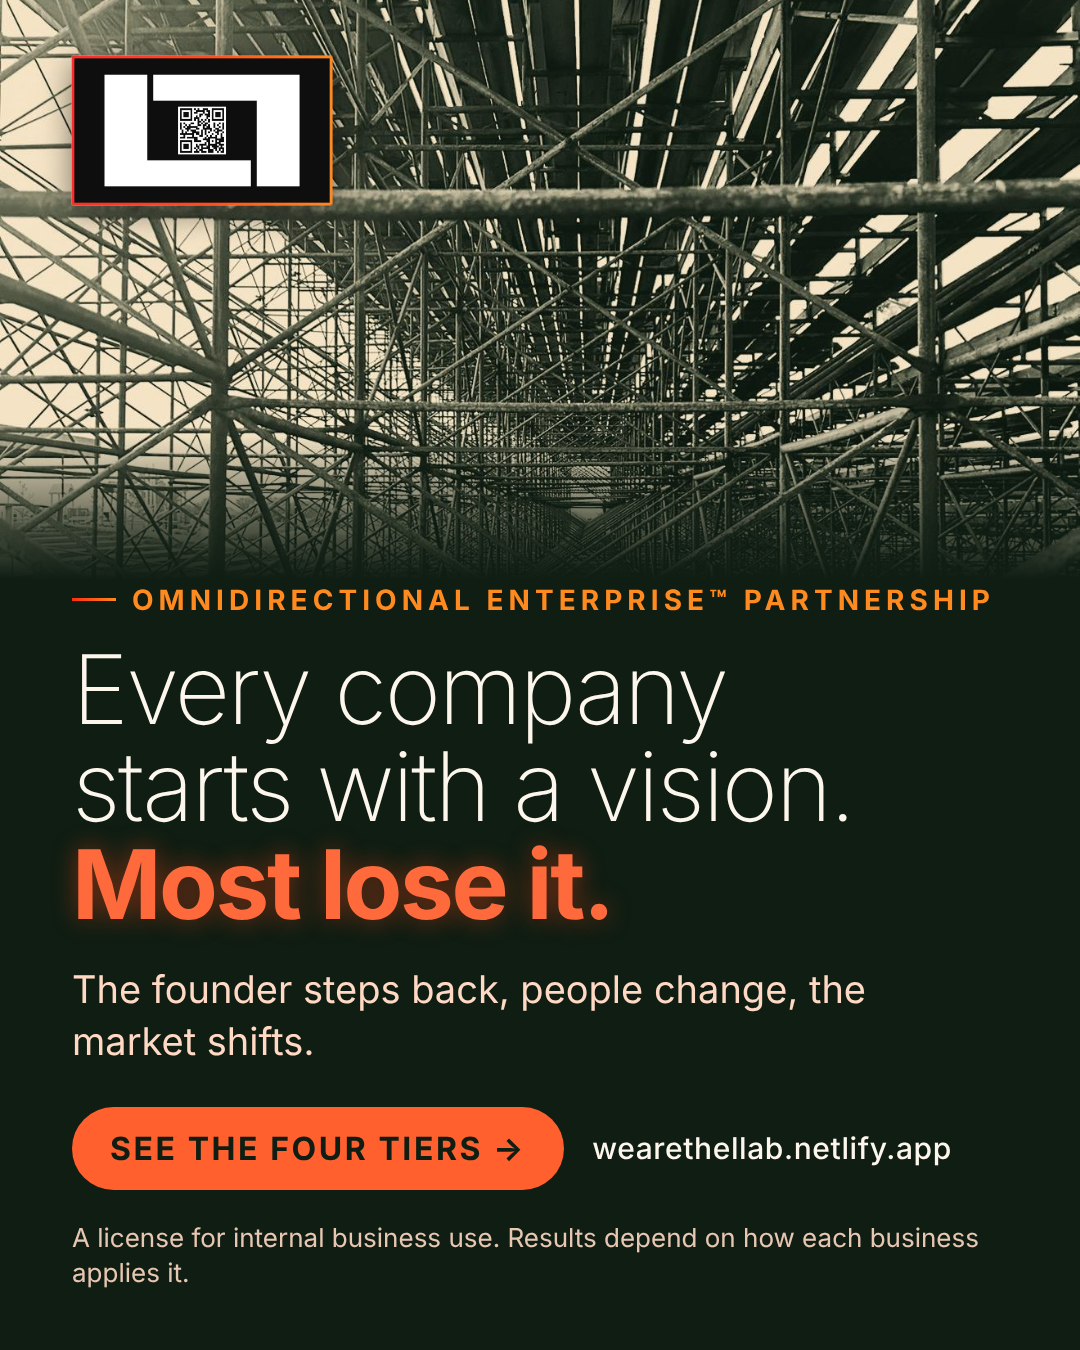
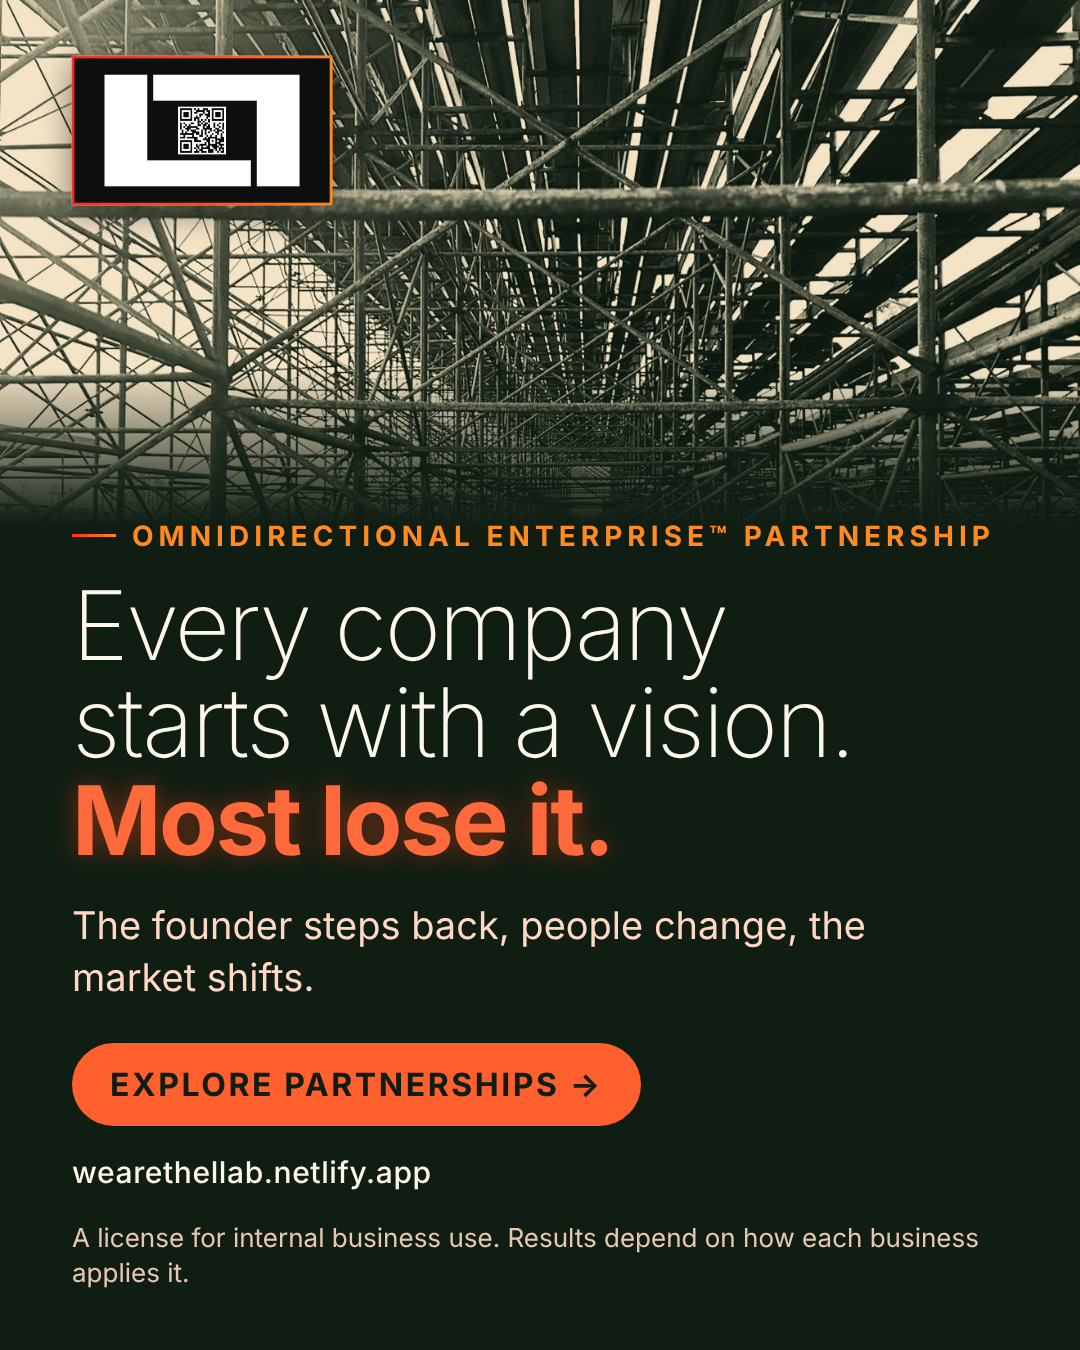
Button reads "Explore Partnerships" (Home hero, sticky CTA, Partnership page, ad 01, share card)
Claude-Session: https://claude.ai/code/session_01CJiPCp3b9wqRwJ31gambQ1

Changed region(s): [[0.0, 0.28, 1.0, 0.9022]]

diff --git a/index.html b/index.html
@@ -159,7 +159,7 @@
         The founder steps back, people change, the market shifts. The Co.LLab™ helps companies define their legacy, build it into how they work, and pass it on.
       </p>
       <div class="hero-cta-row">
-        <a href="pages/partnership.html#tiers" data-field-href="hero_cta_primary_link" class="pill pill--solid"><span data-field="hero_cta_primary_label">See the four tiers</span> <span class="arrow">→</span></a>
+        <a href="pages/partnership.html#tiers" data-field-href="hero_cta_primary_link" class="pill pill--solid"><span data-field="hero_cta_primary_label">Explore Partnerships</span> <span class="arrow">→</span></a>
         <a href="pages/login.html#join" data-field-href="hero_cta_secondary_link" class="pill"><span data-field="hero_cta_secondary_label">Join The .LLab free</span> <span class="arrow">→</span></a>
       </div>
     </div>
@@ -447,7 +447,7 @@
   </div>
 </footer>
 
-<div class="sticky-cta"><a class="pill pill--solid" href="pages/partnership.html#tiers">See the four tiers <span class="arrow">→</span></a></div>
+<div class="sticky-cta"><a class="pill pill--solid" href="pages/partnership.html#tiers">Explore Partnerships <span class="arrow">→</span></a></div>
 <script src="js/main.js"></script>
 <script>document.getElementById('year').textContent = new Date().getFullYear();</script>
 <script src="js/oe-proof.js" defer></script>

diff --git a/pages/partnership.html b/pages/partnership.html
@@ -549,7 +549,7 @@
   </div>
 </footer>
 
-<div class="sticky-cta"><a class="pill pill--solid" href="#tiers">See the four tiers <span class="arrow">→</span></a></div>
+<div class="sticky-cta"><a class="pill pill--solid" href="#tiers">Explore Partnerships <span class="arrow">→</span></a></div>
 <script src="../js/main.js"></script>
 <script src="../js/oe-proof.js" defer></script>
 <script>document.getElementById('year').textContent = new Date().getFullYear();</script>

diff --git a/sw.js b/sw.js
@@ -3,7 +3,7 @@
 // static assets (HTML/CSS/JS/images) and never touches anything that must
 // always be fresh: Netlify Functions (auth, entitlements, downloads),
 // /content/*.json (CMS-edited copy and pricing), or /admin.
-const CACHE_VERSION = 'collab-shell-v26';
+const CACHE_VERSION = 'collab-shell-v27';
 
 const SHELL_ASSETS = [
   '/pages/account.html',

diff --git a/docs/marketing-strategy.md b/docs/marketing-strategy.md
@@ -63,7 +63,7 @@ The 15 ads and their node × phase tags are listed in `marketing/ads/index.json`
 1. Loss framing (01) against aspiration ("Pass it on", 02).
 2. Price visible (05) against hidden (01).
 3. Photograph against type-only.
-4. CTA wording: "See the four tiers" against "Preserve your legacy".
+4. CTA wording: "Explore Partnerships" against "Preserve your legacy".
 
 Measure click-through, landing-page-to-free-join rate, free-to-paid rate and tier mix.
 
